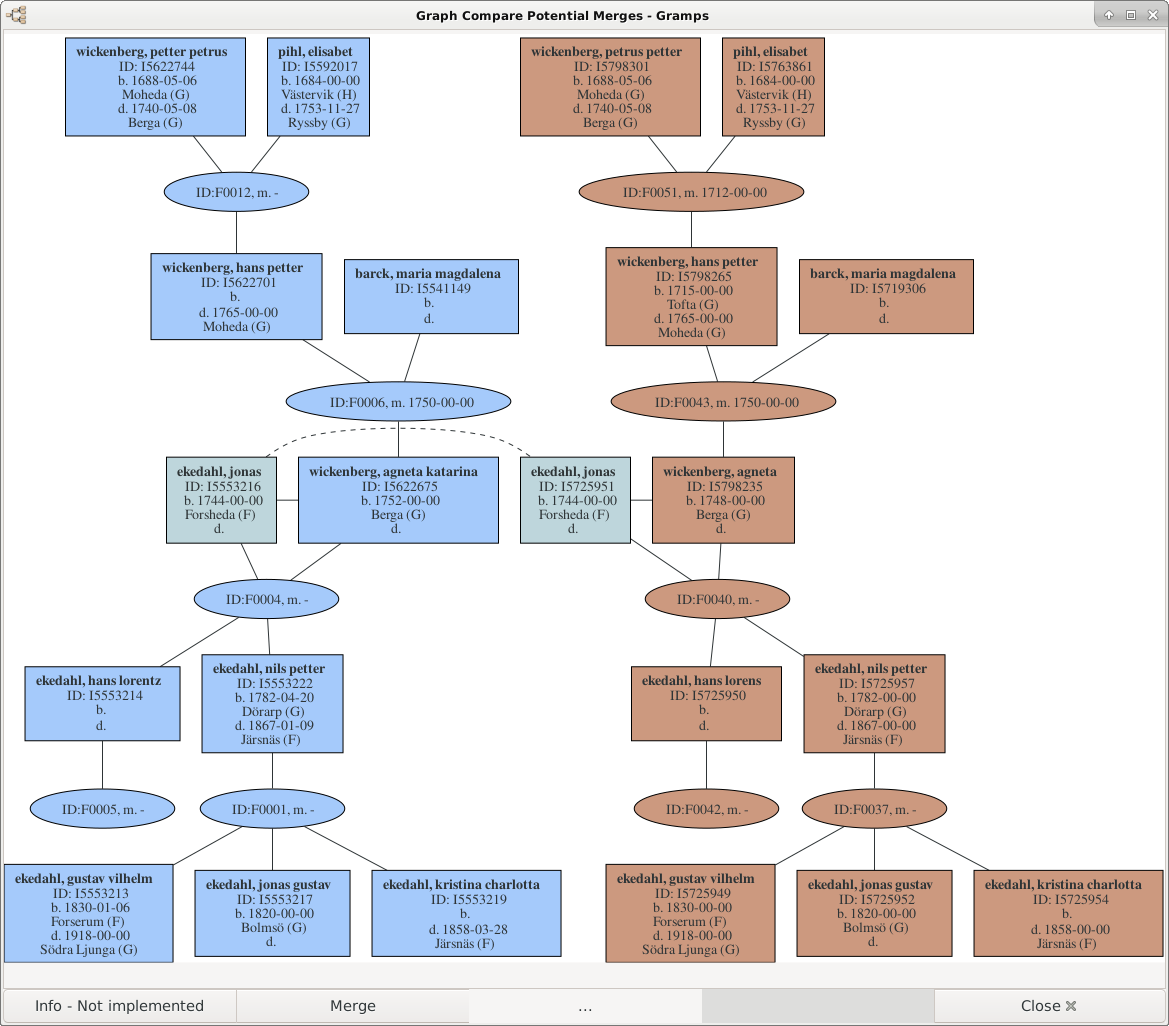
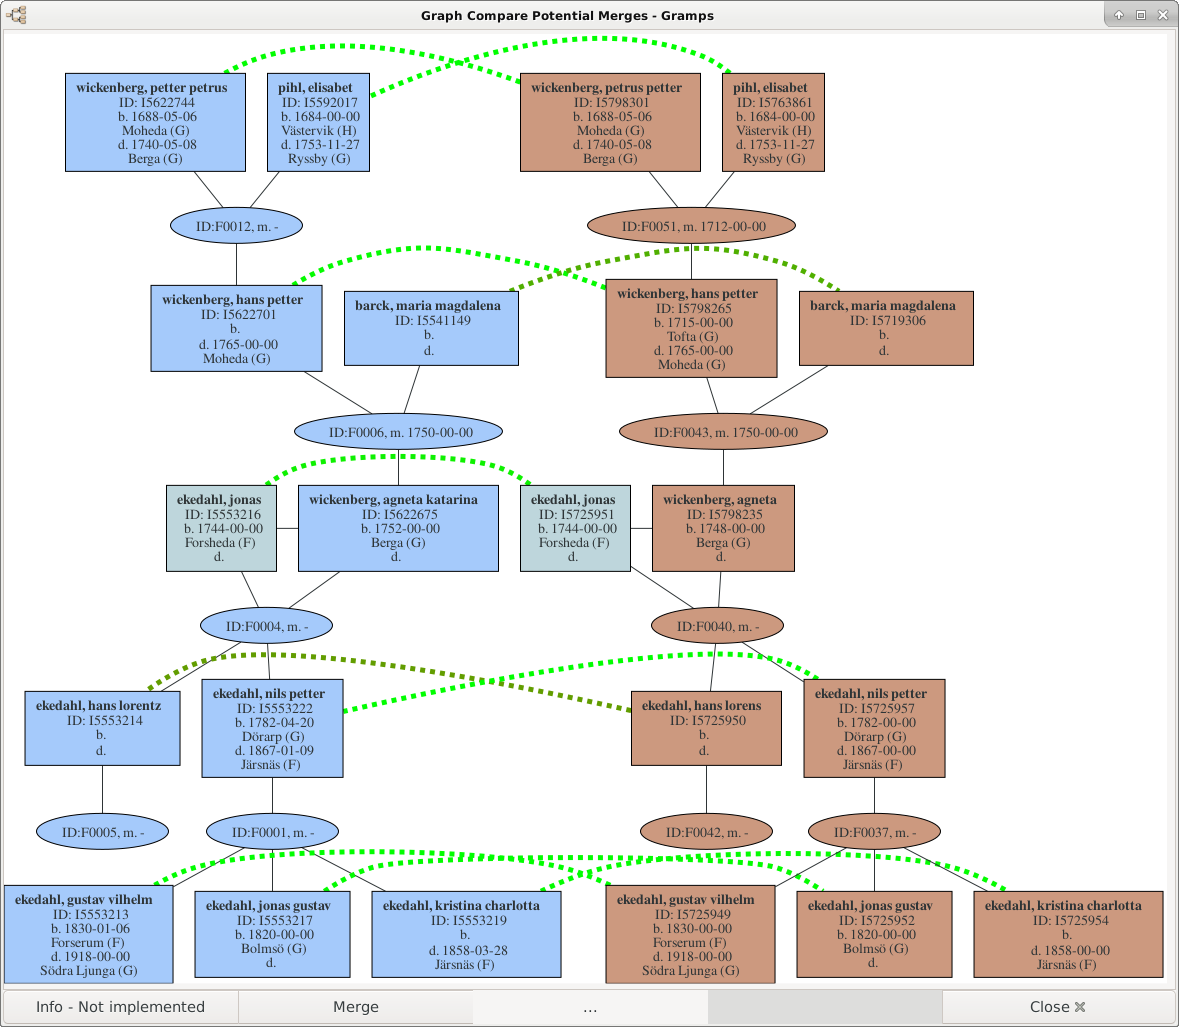
Added dashed lines between matched persons in compareview

diff --git a/matchview.py b/matchview.py
@@ -29,6 +29,7 @@ from subprocess import Popen, PIPE
 from xml.parsers.expat import ParserCreate
 from html import escape
 from collections import defaultdict
+from itertools import combinations
 
 #-------------------------------------------------------------------------
 #
@@ -52,7 +53,7 @@ sys.path.append(os.path.abspath(os.path.dirname(__file__)))
 from ftDatabase import fulltextDatabase
 
 class ViewPersonMatch():
-    def __init__(self, dbstate, uistate, canvas, track, p1_handle, p2_handle, callback):
+    def __init__(self, dbstate, uistate, canvas, track, p1_handle, p2_handle, callback, matches):
         self.dbstate = dbstate
         self.uistate = uistate
         self.canvas = canvas
@@ -132,7 +133,7 @@ class ViewPersonMatch():
         # generate DOT and SVG data
         dot = DotSvgGenerator(self.dbstate, bold_size=self.bold_size, norm_size=self.norm_size)
 
-        graph_data = dot.build_graph(self.p1_handle, self.p2_handle)
+        graph_data = dot.build_graph(self.p1_handle, self.p2_handle, matches)
         del dot
 
         if not graph_data:
@@ -582,7 +583,7 @@ class GraphvizSvgParser(object):
         Parse <path> tags.
         These define the links between nodes.
         Solid lines represent birth relationships and dashed lines are used
-        when a child has a non-birth relationship to a parent.
+        when a child has a non-birth relationship to a parent. (!! not here from GraphView)
         """
         p_data = attrs.get('d')
         line_width = attrs.get('stroke-width')
@@ -753,8 +754,7 @@ class DotSvgGenerator(object):
         #self.ftdb = fulltextDatabase(writer=False) # Only used in get_match_color
         self.maxlevel = 2  # 2 generations of Ancestors
         self.minlevel = -2  # 2 generations of Decendants
-        self.personNodes = defaultdict(list) # dict of lists with level as key and a list (type, (person, color)) items
-        self.familyNodes = [] # list of (family, color)
+        self.nodes = []
         self.links = []       # list of (fromId, toId)
         self.dot = None       # will be StringIO()
 
@@ -841,7 +841,6 @@ class DotSvgGenerator(object):
         fontfamily = False
         font_color = "#2e3436"  #?
         self.spline = 'true'
-        pagedir = "BL"
         rankdir = "TB"
         ratio = "compress"
         ranksep = 5  #self.view._config.get('interface.graphview-ranksep')
@@ -855,19 +854,18 @@ class DotSvgGenerator(object):
         xmargin = 0.00
         ymargin = 0.00
 
-        self.write('digraph GRAMPS_graph\n')
+        self.write('digraph Compare_matches\n')
         self.write('{\n')
         self.write(' bgcolor="%s";\n' % bg_color)
         self.write(' center="false"; \n')
         self.write(' charset="utf8";\n')
-        self.write(' concentrate="false";\n')
+        self.write(' concentrate="true";\n')
         self.write(' dpi="%d";\n' % dpi)
         self.write(' graph [fontsize=%3.1f];\n' % self.fontsize)
         self.write(' margin="%3.2f,%3.2f"; \n' % (xmargin, ymargin))
         self.write(' mclimit="99";\n')
         self.write(' nodesep="%.2f";\n' % nodesep)
         self.write(' outputorder="edgesfirst";\n')
-        self.write(' pagedir="%s";\n' % pagedir)
         self.write(' rankdir="%s";\n' % rankdir)
         self.write(' ranksep="%.2f";\n' % ranksep)
         self.write(' ratio="%s";\n' % ratio)
@@ -886,8 +884,7 @@ class DotSvgGenerator(object):
                        % (self.norm_size, font_color))
         self.write('\n')
         # clear out lists (see __init__)
-        self.personNodes = defaultdict(list)
-        self.familyNodes = []
+        self.nodes = []
         self.links = []
 
     def resolve_font_name(self, font_name):
@@ -1014,15 +1011,17 @@ class DotSvgGenerator(object):
                 date = event.get_date_object()
                 break                
         options = 'margin="0.11,0.08" shape="ellipse" color="#cccccc" fillcolor="%s" fontcolor="#000000" style="filled"' % color
-        label = '<TABLE BORDER="0" CELLSPACING="2" CELLPADDING="0" CELLBORDER="0"><TR><TD>ID:%s, m. %s</TD></TR></TABLE>' % (family.gramps_id, date)
+        label = "ID:%s, m. %s" % (family.gramps_id, date)
         self.generate_node(family.gramps_id, label, shape='ellipse', fillcolor=color)
 
-    def generate_link(self, from_node, to_node, style='solid'):
-        txt = '  _%s -> _%s  [ style=%s arrowhead=none arrowtail=none color="#2e3436" ];\n' % (from_node.replace('-', '_'), to_node.replace('-', '_'), style)
-        self.write('%s\n' % txt)
+    def generate_link(self, from_node, to_node, constraint=False, style='solid', color="#2e3436", penwidth=1):
+        opt = 'style=%s arrowhead=none arrowtail=none color="%s" penwidth="%d"' % (style, color, penwidth)
+        if constraint:
+            opt += " constraint=false"
+        self.write('  _%s -> _%s [%s];\n' % (from_node.replace('-', '_'), to_node.replace('-', '_'), opt))
 
     def add_family(self, person, family, updown):
-        self.familyNodes.append((family, self.color))
+        self.nodes.append(('family', None, family, self.color))
         if updown == 'up':
             self.links.append((family.gramps_id, person.gramps_id))
         else:
@@ -1034,7 +1033,7 @@ class DotSvgGenerator(object):
         handle = family.get_father_handle()
         if handle:
             p = self.database.get_person_from_handle(handle)
-            self.personNodes[level].append((p, self.color))
+            self.nodes.append(('person', level, p, self.color))
             self.links.append((p.gramps_id, family.gramps_id))
             if self.maxlevel > level:
                 for f_handle in p.get_parent_family_handle_list(): #Fam where p is child
@@ -1042,7 +1041,7 @@ class DotSvgGenerator(object):
         handle = family.get_mother_handle()
         if handle:
             p = self.database.get_person_from_handle(handle)
-            self.personNodes[level].append((p, self.color))
+            self.nodes.append(('person', level, p, self.color))
             self.links.append((p.gramps_id, family.gramps_id))
             if self.maxlevel > level:
                 for f_handle in p.get_parent_family_handle_list(): #Fam where p is child
@@ -1056,7 +1055,7 @@ class DotSvgGenerator(object):
         if spouse_handle:
             p = self.database.get_person_from_handle(spouse_handle)
             self.links.append((person.gramps_id, p.gramps_id)) #Make invisible FIX
-            self.personNodes[level].append((p, self.color))
+            self.nodes.append(('person', level, p, self.color))
             self.links.append((p.gramps_id, family.gramps_id))
             #spouse parents
             for family_handle in p.get_parent_family_handle_list(): #Fam where p (spouse) is child
@@ -1067,7 +1066,7 @@ class DotSvgGenerator(object):
         # children of family
         for child_ref in family.get_child_ref_list():
             child = self.database.get_person_from_handle(child_ref.ref)
-            self.personNodes[level].append((child, self.color))
+            self.nodes.append(('person', level, child, self.color))
             self.links.append((family.gramps_id, child.gramps_id))
             if level > self.minlevel:
                 for family_handle in child.get_family_handle_list(): #Fam where child parent or spouse
@@ -1075,7 +1074,7 @@ class DotSvgGenerator(object):
                     self.add_family(child, fam, 'down')
                     self.add_children(fam, level - 1)
     
-    def build_graph(self, p1_handle, p2_handle):  # active_person):
+    def build_graph(self, p1_handle, p2_handle, matches):
         """
         Builds a GraphViz tree based on comparing p_handle1, p_handle2
         """
@@ -1090,7 +1089,7 @@ class DotSvgGenerator(object):
         self.color =  '#a5cafb' #Blue for p1
         for p in (p1, p2):
             level = 0
-            self.personNodes[level].append((p, matchColor))
+            self.nodes.append(('person', level, p, matchColor))
             for family_handle in p.get_parent_family_handle_list(): #Fam where p is child
                 #get_main_parents_family_handle??
                 self.add_parents(p, family_handle, level + 1)
@@ -1102,38 +1101,51 @@ class DotSvgGenerator(object):
                 self.add_children(fam, level - 1)
 
             self.color = '#cc997f' #Brown for p2
-
-        #family nodes
         done = []
-        for (node, color) in self.familyNodes:
+        rank = defaultdict(list)
+        allNodes = set()
+        for (typ, level, node, color) in self.nodes:
             if node.gramps_id in done: continue
-            self.family_node(node, color)
             done.append(node.gramps_id)
-        #person nodes
-        done = []
-        for (level, nodes) in self.personNodes.items():
-            rank = []
-            for (p, col) in nodes:
-                if p.gramps_id in done: continue
-                self.person_node(p, col)
-                done.append(p.gramps_id)
-                rank.append(p.gramps_id.replace('-', '_'))
-            self.write("{rank = same; _%s;}\n" % '; _'.join(rank))
+            if typ == 'family':
+                self.family_node(node, color)
+            elif typ == 'person':
+                self.person_node(node, color)
+                allNodes.add(node.gramps_id)
+                rank[level].append(node.gramps_id.replace('-', '_'))
+            #else: ERROR
+        for (l, nodeIds) in rank.items():
+            self.write("{rank = same; _%s;}\n" % '; _'.join(nodeIds))
         #links
         done = []
-        self.generate_link(p1.gramps_id, p2.gramps_id, style='dashed')
-        done.append((p1.gramps_id, p2.gramps_id))
         for (nodeId1, nodeId2) in self.links:
             if (nodeId1, nodeId2) in done: continue
             self.generate_link(nodeId1, nodeId2)
             done.append((nodeId1, nodeId2))
+        #links between matches
+        matchpair2rating = {}
+        for (c, p1id, p2id) in matches:
+            matchpair2rating[(p1id, p2id)] = c
+            matchpair2rating[(p2id, p1id)] = c
+        for pair in combinations(allNodes, 2):
+            if pair in matchpair2rating:
+                # color dep on rating 1.0 = grön, 0.75=yellow, 0.5=red
+                rating = matchpair2rating[pair]
+                green = int(255 * (rating - 0.5) / 0.5)
+                red = 255 - green
+                color = "#%s" % bytearray([red, green, 0]).hex()
+                if p1.gramps_id in pair and p2.gramps_id in pair:
+                    constraint = False
+                else:
+                    constraint = True
+                self.generate_link(pair[0], pair[1], constraint=constraint, style='dashed', color=color, penwidth=5)
+
         # close the graphviz dot code with a brace
         self.write('}\n')
 
         # get DOT and generate SVG data by Graphviz
         dot_data = self.dot.getvalue().encode('utf8')
         svg_data = self.make_svg(dot_data)
-        #print(dot_data)
         return (dot_data, svg_data)
 
     def make_svg(self, dot_data):

diff --git a/treemerge.py b/treemerge.py
@@ -120,6 +120,7 @@ class TreeMerge(tool.Tool, ManagedWindow):  #CHECK use BatchTool when using auto
         #init(self.dbstate.db)  # for libaccess
         self.map = {}
         self.list = []
+        self.id_list = []
         self.index = 0
         self.merger = None
         self.mergee = None
@@ -267,6 +268,7 @@ class TreeMerge(tool.Tool, ManagedWindow):  #CHECK use BatchTool when using auto
                 continue
             #pn1 = "%s %s" % (p1.gramps_id, name_displayer.display(p1))
             #pn2 = "%s %s" % (p2.gramps_id, name_displayer.display(p2))
+            self.id_list.append((c, p1.gramps_id, p2.gramps_id))
             pn1 = name_displayer.display(p1)
             pn2 = name_displayer.display(p2)
             self.mlist.add([c1, pn1, pn2, c2],(p1key, p2key))
@@ -278,8 +280,7 @@ class TreeMerge(tool.Tool, ManagedWindow):  #CHECK use BatchTool when using auto
             return
         (self.p1, self.p2) = self.mlist.get_object(iter)
         self.notImplem("Merge 2 matched persons")
-        MergePerson(self.dbstate, self.uistate, self.track, self.p1, self.p2,
-                    self.on_update, True)
+        MergePerson(self.dbstate, self.uistate, self.track, self.p1, self.p2, self.on_update, True)
 
     def do_automerge(self, obj):
         cutoff = self.automergecutoff.get_model()[self.automergecutoff.get_active()][1]
@@ -316,7 +317,7 @@ class TreeMerge(tool.Tool, ManagedWindow):  #CHECK use BatchTool when using auto
             return
         (self.p1, self.p2) = self.mlist.get_object(iter)
         self.uistate.set_active(self.p1, 'Person')
-        GraphComparePerson(self.dbstate, self.uistate, self.track, self.p1, self.p2, self.on_update) #FIX
+        GraphComparePerson(self.dbstate, self.uistate, self.track, self.p1, self.p2, self.on_update, self.id_list) #FIX
 
     def on_update(self, handle_list=None):
         if self.db.has_person_handle(self.p1):
@@ -345,7 +346,7 @@ class TreeMerge(tool.Tool, ManagedWindow):  #CHECK use BatchTool when using auto
 
 class GraphComparePerson(ManagedWindow):
 
-    def __init__(self, dbstate, uistate, track, p1, p2, callback):
+    def __init__(self, dbstate, uistate, track, p1, p2, callback, matches):
         self.uistate = uistate
         self.track = track
         ManagedWindow.__init__(self, self.uistate, self.track, self.__class__)
@@ -367,7 +368,7 @@ class GraphComparePerson(ManagedWindow):
         self.canvas.props.resolution_y = 72
         scrolled_win.add(self.canvas)
 
-        self.graphView = ViewPersonMatch(self.dbstate, self.uistate, self.canvas, track, self.p1, self.p2, callback)
+        self.graphView = ViewPersonMatch(self.dbstate, self.uistate, self.canvas, track, self.p1, self.p2, callback, matches)
 
         self.closebtn = top.get_object("grclose")
         self.closebtn.connect('clicked', self.close)

diff --git a/README.md b/README.md
@@ -72,7 +72,8 @@ Select a matched pair
 ![Main window](/TreemergeMain.png)
 
 Press **Compare** to see the two family-trees (colored blue and brown) for the matched persons in
-the selected pair (colored green).
+the selected pair (colored green). Dashed lines connect matched persons, color indicate rating
+(from green=1.0 via yellow to red=0.5).
 
 ![Graphical compare of match](/TreemergeCompare.png)
 
